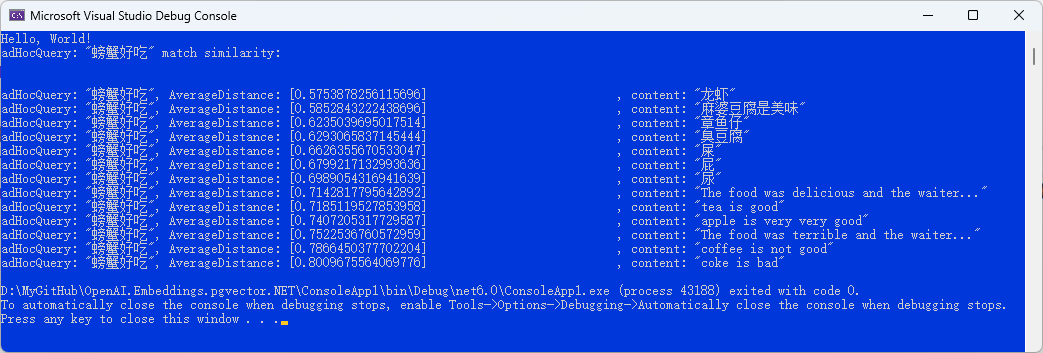
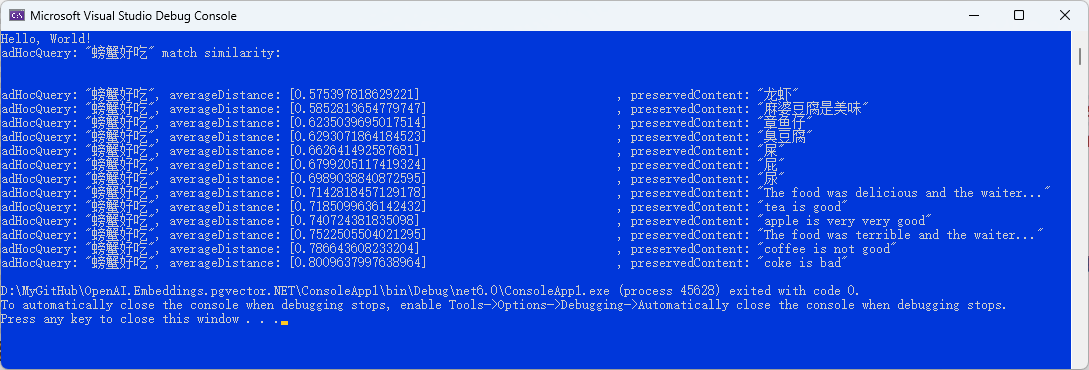
1

diff --git a/ConsoleApp1/Program.cs b/ConsoleApp1/Program.cs
@@ -3,6 +3,7 @@ using Npgsql;
 using OpenAI;
 using PgVectors.NET;
 using PgVectors.Npgsql;
+using System.Data;
 using System.Data.Common;
 
 Console.WriteLine("Hello, World!");
@@ -95,14 +96,14 @@ using var npgsqlDataSource = dataSourceBuilder.Build();
 using var connection = npgsqlDataSource.OpenConnection();
 
 // Preserve the vectors of contents of embeddings for match
-await using (var npgsqlCommand = new NpgsqlCommand(sql, connection))
+await using (var sqlCommand = new NpgsqlCommand(sql, connection))
 {
     foreach (var (content , pgVector) in embeddings)
     {
-        npgsqlCommand.Parameters.AddWithValue(content);
-        npgsqlCommand.Parameters.AddWithValue(pgVector);
+        sqlCommand.Parameters.AddWithValue(content);
+        sqlCommand.Parameters.AddWithValue(pgVector);
     }
-    await npgsqlCommand.ExecuteNonQueryAsync();
+    await sqlCommand.ExecuteNonQueryAsync();
 }
 
 var adHocQuery = "shit";
@@ -146,18 +147,21 @@ var adHocQueryEmbedding = result
                                 .ToArray()
                                 ;
 
-await using (var npgsqlCommand = new NpgsqlCommand(sql, connection))
+await using (var sqlCommand = new NpgsqlCommand(sql, connection))
 {
-    npgsqlCommand.Parameters.AddWithValue(adHocQueryEmbedding);
+    sqlCommand.Parameters.AddWithValue(adHocQueryEmbedding);
     var seperator = "\t\t\t\t";
-    await using (DbDataReader dataReader = await npgsqlCommand.ExecuteReaderAsync())
+    await using (DbDataReader dataReader = await sqlCommand.ExecuteReaderAsync())
     {
         while (await dataReader.ReadAsync())
         {
+            IDataRecord dataRecord = dataReader;
+            var averageDistance = dataReader.GetDouble(dataRecord.GetOrdinal("AverageDistance"));
+            var preservedContent = dataReader.GetString(dataRecord.GetOrdinal("content"));
             Console
                 .WriteLine
                         (
-                            $@"{nameof(adHocQuery)}: ""{adHocQuery}"", AverageDistance: [{(double) dataReader["AverageDistance"]}]{seperator}, preserved content: ""{(string) dataReader["content"]}"""
+                            $@"{nameof(adHocQuery)}: ""{adHocQuery}"", {nameof(averageDistance)}: [{averageDistance}]{seperator}, {nameof(preservedContent)}: ""{preservedContent}"""
                         );
         }
     }
